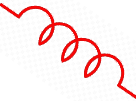
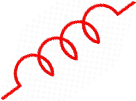
background element test 1

Changed region(s): [[0.0, 0.0, 1.0, 1.0]]

diff --git a/index.html b/index.html
@@ -91,7 +91,7 @@
 
         <div id="parallax" class="header-content d-flex align-items-center">
             <div class="header-shape shape-one layer" data-depth="0.10">
-                <img src="assets/images/banner/shape/shape-1.png" alt="Shape">
+                <img src="assets/images/banner/shape/shape-4.png" alt="Shape">
             </div> <!-- header shape -->
             <div class="header-shape shape-tow layer" data-depth="0.30">
                 <img src="assets/images/banner/shape/shape-2.png" alt="Shape">
@@ -105,9 +105,9 @@
             <div class="header-shape shape-five layer" data-depth="0.20">
                 <img src="assets/images/banner/shape/shape-1.png" alt="Shape">
             </div> <!-- header shape -->
-            <div class="header-shape shape-six layer" data-depth="0.15">
+            <!-- <div class="header-shape shape-six layer" data-depth="0.15">
                 <img src="assets/images/banner/shape/shape-4.png" alt="Shape">
-            </div> <!-- header shape -->
+            </div> <!-- header shape --> -->
             <div class="header-shape shape-seven layer" data-depth="0.50">
                 <img src="assets/images/banner/shape/shape-5.png" alt="Shape">
             </div> <!-- header shape -->
